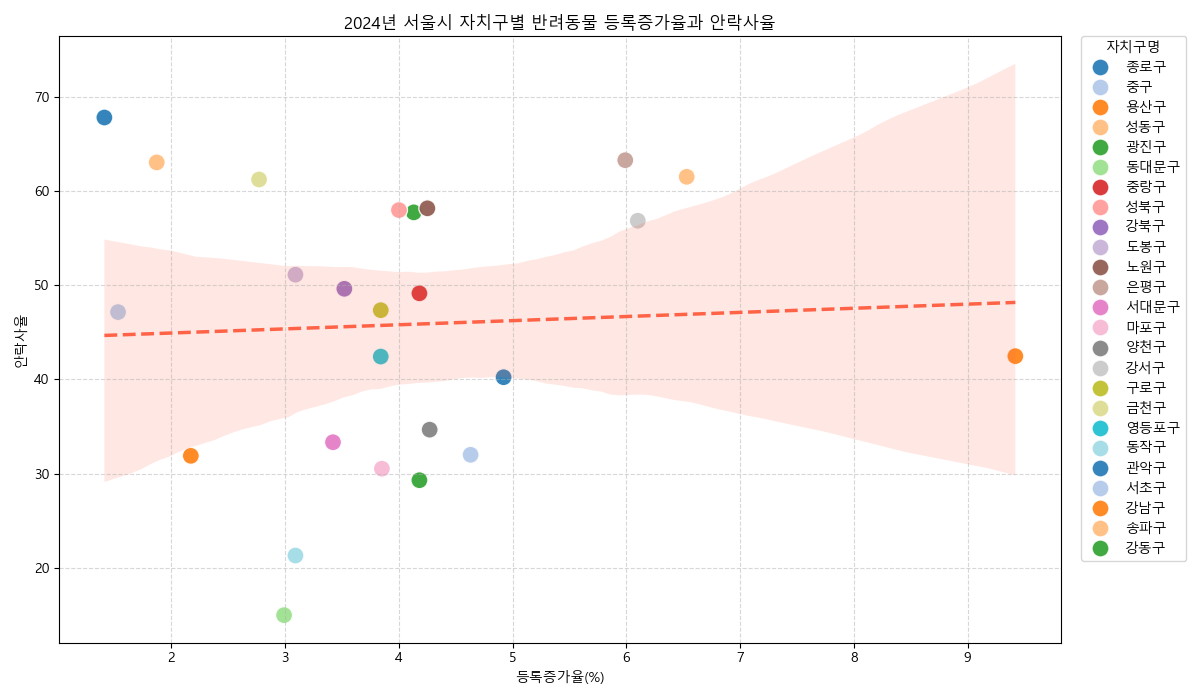
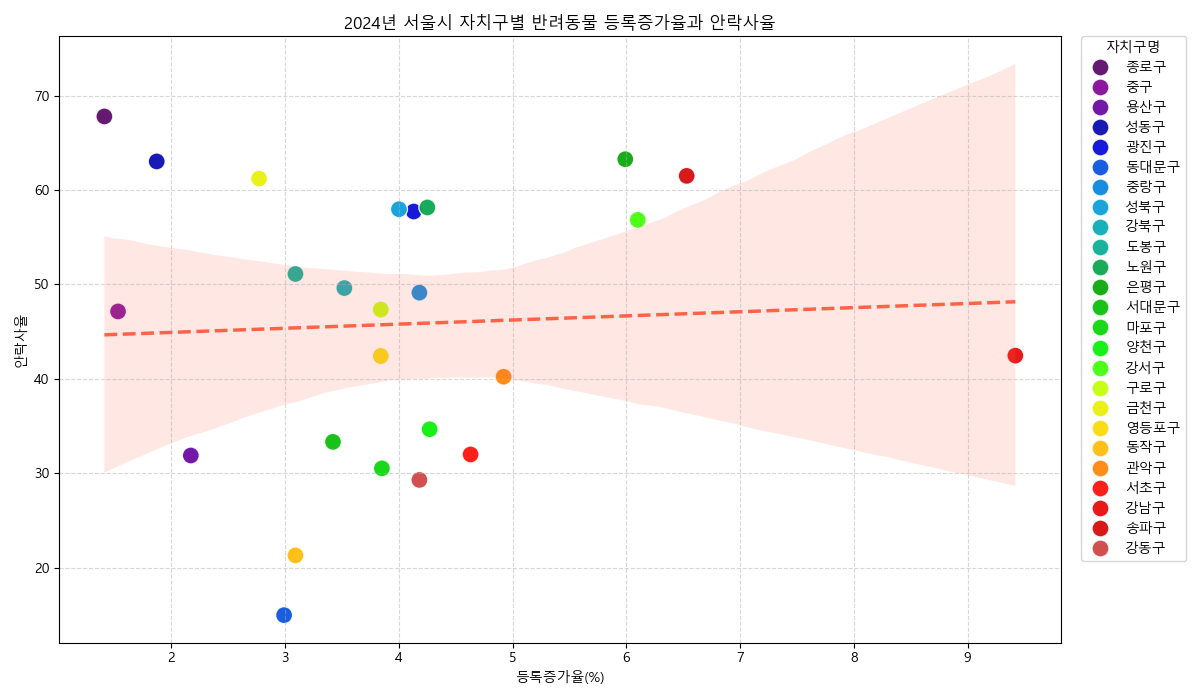
chore: 그래프 수정, 이태현

diff --git a/src/result/5.py b/src/result/5.py
@@ -28,7 +28,7 @@ sns.scatterplot(
     x='등록증가율(%)',
     y='안락사율',
     hue='자치구',        # 색 나누기
-    palette='tab20',    # 색
+    palette='nipy_spectral',    # 색
     s=150,              # size라고 쓰니까 이상하게 나옴
     alpha=0.9,
     edgecolor='white'   # 테두리 색
